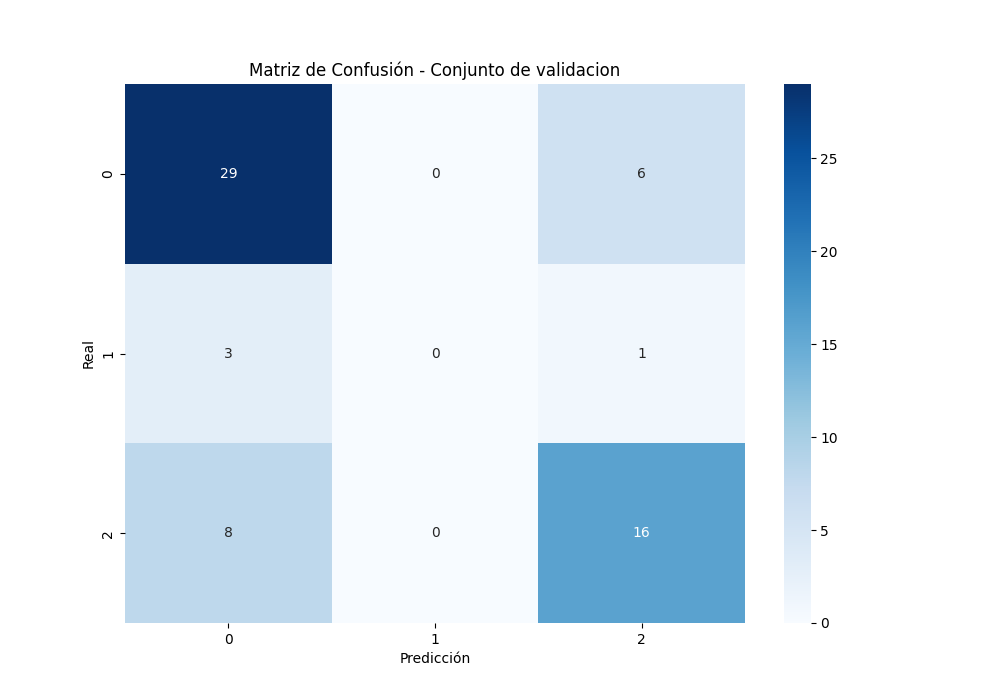
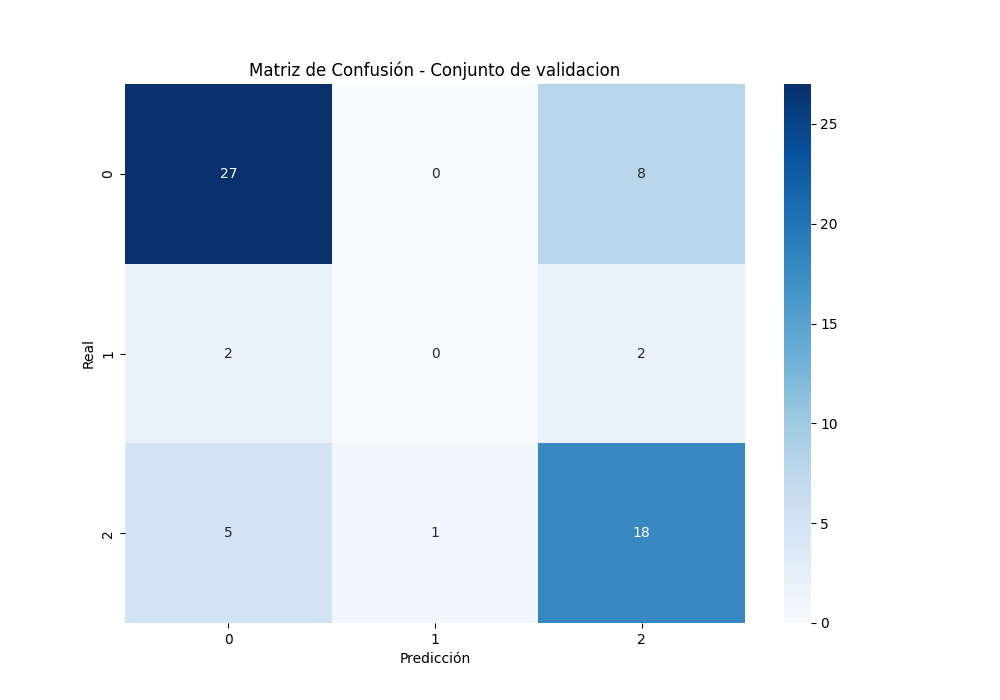
changes

diff --git a/refactoring/evaluarModelos.py b/refactoring/evaluarModelos.py
@@ -7,6 +7,7 @@ import sys
 import pandas as pd
 from loadParams import load_params
 import mlflow
+import json
 
 class evaluarModelo():
     def __init__(self,modelo,X_train,y_train,X_val,y_val,X_test,y_test,tipoModelo):
@@ -18,6 +19,7 @@ class evaluarModelo():
          self.X_test=X_test
          self.y_test=y_test
          self.tipoModelo = tipoModelo
+         self.metricas = []
 
 
     def evaluar(self):
@@ -31,7 +33,25 @@ class evaluarModelo():
         self.precision_train,self.recall_train,self.f1_train = self.metricasDeRendimiento(self.y_train,y_pred_train,"entrenamiento")
         self.precision_val,self.recall_val,self.f1_val =self.metricasDeRendimiento(self.y_val,y_pred_val,"validacion")
         self.precision_test,self.recall_test,self.f1_test =self.metricasDeRendimiento(self.y_test,y_pred_test,"prueba")
-
+        self.metricas.append({
+            self.tipoModelo:{
+                "entrenamiento":{
+                    'precision_entrenamiento': self.precision_train,
+                    'recall_entrenamiento': self.recall_train,
+                    'f1_entrenamiento': self.f1_train
+                },
+                "validacion":{
+                    'precision_validacion': self.precision_val,
+                    'recall_validacion': self.recall_val,
+                    'f1_validacion': self.f1_val
+                },
+                "prueba":{
+                    'precision_prueba': self.precision_test,
+                    'recall_prueba': self.recall_test,
+                    'f1_prueba': self.f1_test
+                }
+            }
+        })
         self.logModeloAMLFlow()
 
     @staticmethod
@@ -74,6 +94,17 @@ class evaluarModelo():
         mlflow.log_metric(f'recall prueba {self.tipoModelo}',self.recall_test)
         mlflow.log_metric(f'f1 prueba {self.tipoModelo}',self.f1_test)
         mlflow.sklearn.log_model(self.modelo, f"{self.tipoModelo}_model")
+        full_json={
+            'data':{
+                "metricas.json":{
+                    'data': self.metricas
+                }
+            }
+        }
+        json_object = json.dumps(full_json, indent=4)
+        with open("metricas.json", "w") as outfile:
+            outfile.write(json_object)
+
 
 
 if __name__ == '__main__':

diff --git a/refactoring/entrenarModelos.py b/refactoring/entrenarModelos.py
@@ -7,7 +7,7 @@ import pandas as pd
 from loadParams import load_params
 
 def entrenar_modelo(model,param_grid,X_train,y_train):
-        grid_search = GridSearchCV(model, param_grid, cv=10, scoring='accuracy')
+        grid_search = GridSearchCV(model, param_grid, cv=5, scoring='accuracy')
         grid_search.fit(X_train, y_train.ravel())
 
         return grid_search.best_estimator_
